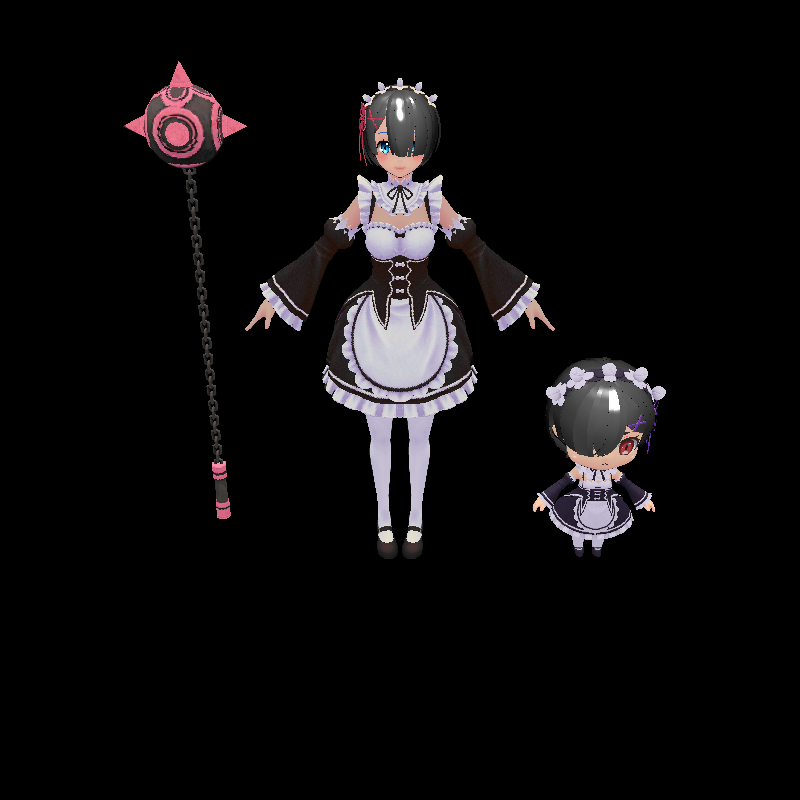
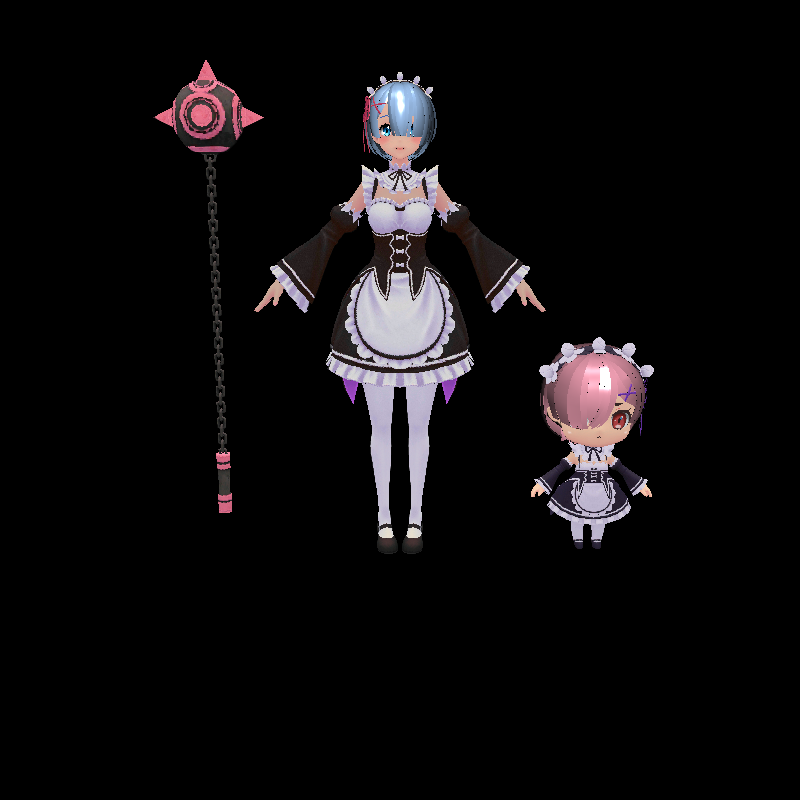
fix rem hair color!

diff --git a/main.cpp b/main.cpp
@@ -11,5 +11,6 @@ int main(int argc, char const* argv[]) {
     Viewer viewer;
     viewer.load(argv[1]);
     viewer.show();
+    viewer.scene->dumpToPNG(string("../images/") + argv[1] + ".png");
     return 0;
 }

diff --git a/utils/GitHelper.hpp b/utils/GitHelper.hpp
@@ -3,6 +3,6 @@
 #include <string>
 
 const std::string GIT_BRANCH = "master";
-const std::string GIT_HASH = "d0e3791";
+const std::string GIT_HASH = "e2c29ce";
 
 #endif /* GITHELPER_HPP */
